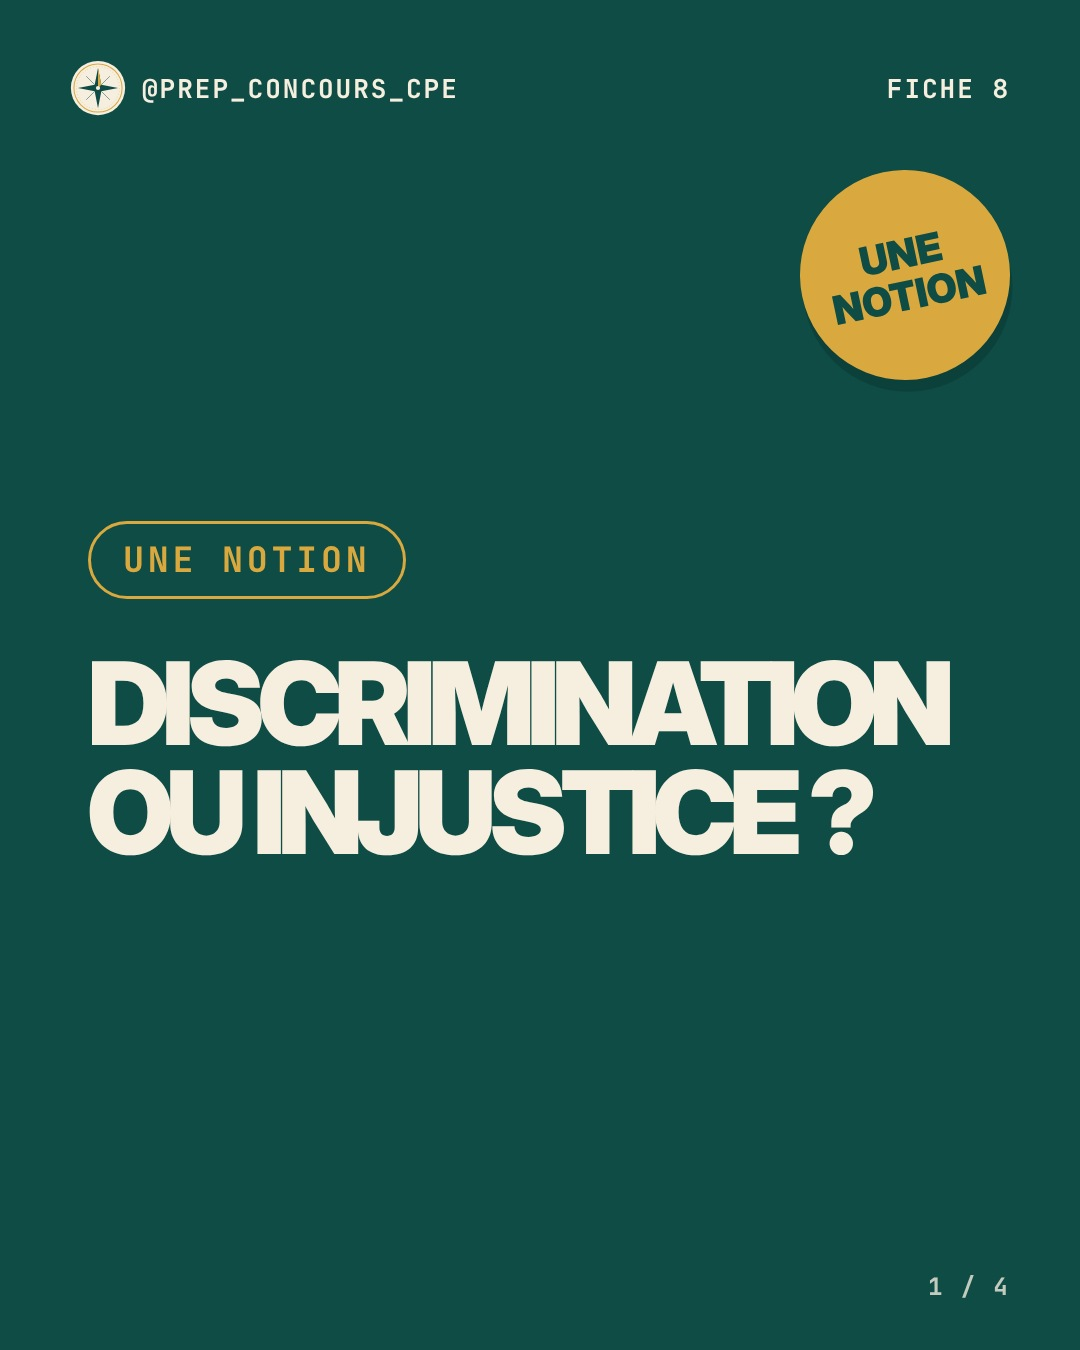
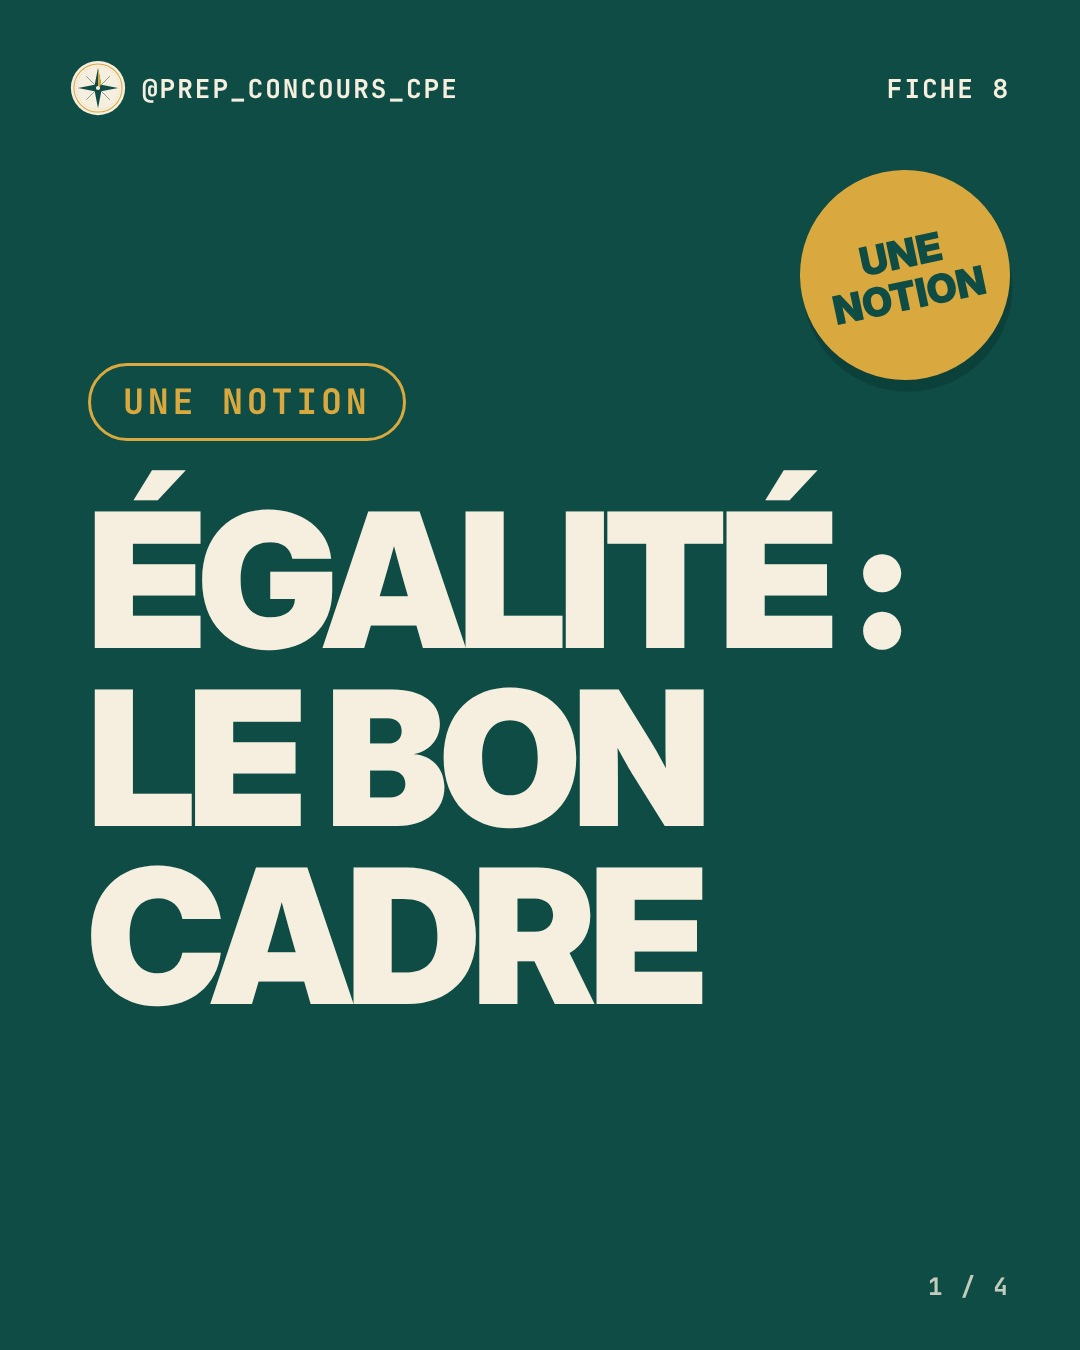
Carrousel du 13 nov : version moins clivante (égalité de traitement)
Claude-Session: https://claude.ai/code/session_01FvtqKV63af86obyasyuLiP

Changed region(s): [[0.0611, 0.2489, 0.8861, 0.7467], [0.3667, 0.28, 0.3972, 0.3111]]

diff --git a/posts/auto/2026-11-13/LEGENDE.md b/posts/auto/2026-11-13/LEGENDE.md
@@ -1,3 +1,3 @@
-Discrimination ou injustice ressentie ? Une discrimination est une différence de traitement fondée sur un critère prohibé par la loi, dans un domaine prévu par la loi. Ce n'est pas toute injustice ressentie. Et l'établissement peut lui-même discriminer : orientation, sanctions, stages. Tout est dans la fiche 8 de Prep'CPE. Quel exemple de discrimination dans un EPLE te vient en premier ? Dis-le en commentaire. Lien en bio.
+Égalité : le bon cadre. Une discrimination est une différence de traitement fondée sur un critère prévu par la loi, dans un domaine prévu par la loi. Un sentiment d'injustice, lui, appelle d'abord l'écoute, l'explication de la règle et la recherche d'une solution. Les quatre gestes simples, les textes et les situations sont dans la fiche 8 de Prep'CPE. Quelle est, selon toi, la première chose à faire quand un élève dit « ce n'est pas juste » ? Dis-le en commentaire. Lien en bio.
 
-#concourscpe #cpe2027 #prepaconcours #conseillerprincipaldeducation #viescolaire #discriminations #egalite
+#concourscpe #cpe2027 #prepaconcours #conseillerprincipaldeducation #viescolaire #egalite #climatscolaire
